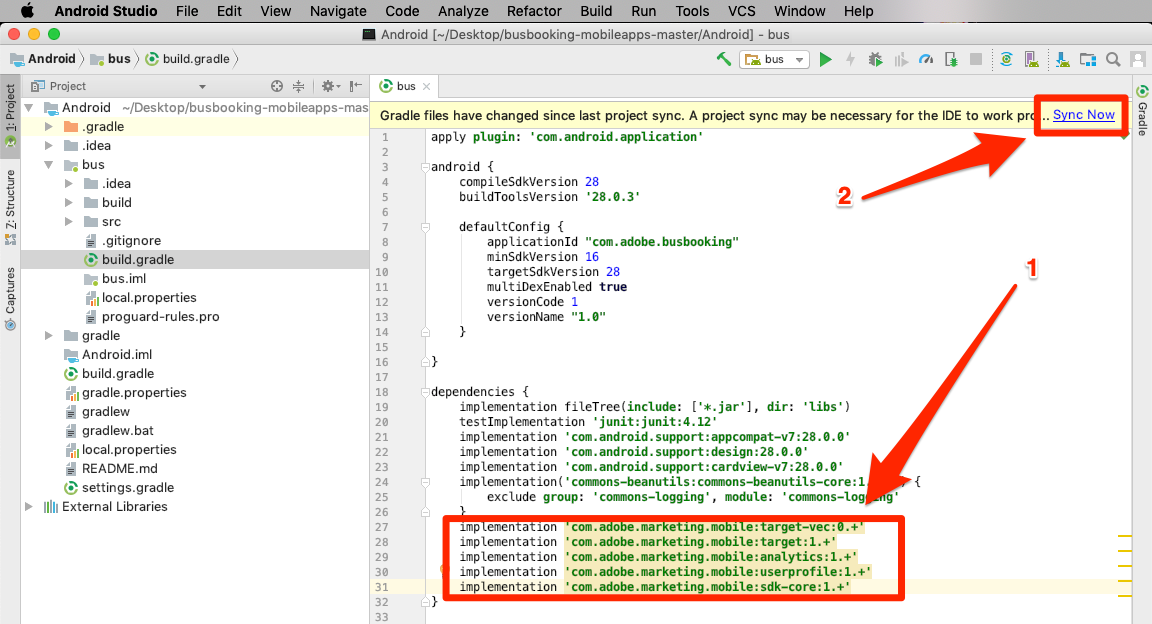
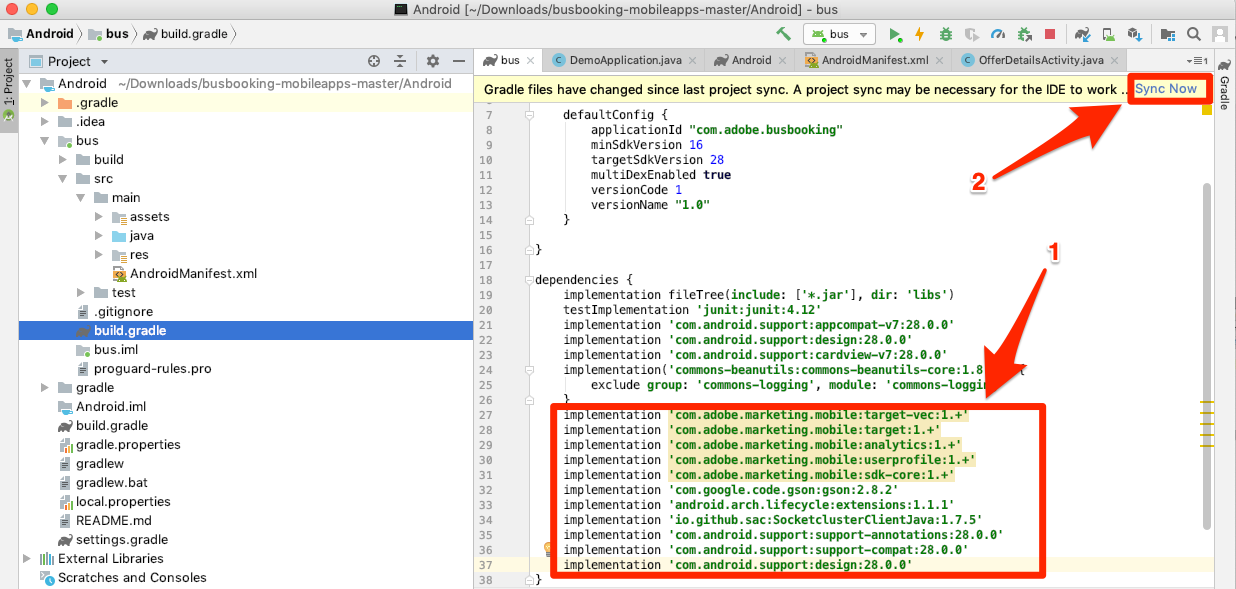
updates to additional implementation and debugging steps

diff --git a/help/mobile-android-implementation/target-vec.md b/help/mobile-android-implementation/target-vec.md
@@ -182,6 +182,18 @@ Now let's create an activity in the Target interface.
 
 <!--   ![App loads in the VEC](images/android/mobile-targetvec-devicePaired.png)-->
 
+    > [!TIP] If you don't see the Mobile VEC automatically open in the Target interface after opening the deep link in the mobile device, here are some things to try:
+    >
+    >   1. Make sure you are using the exact same URL in the Target interface and didn't accidentally clip off any characters. When runningt the command in the adb shell, make sure the URL is in quotation marks
+    >
+    >
+    >   1. Confirm that you added the additional dependencies to the build.gradle file that are required by the Target VEC. These dependencies should have been added during the [Install the Mobile SDK lesson](https://docs.adobe.com/content/help/en/experience-cloud/implementing-in-mobile-android-apps-with-launch/configure-launch/launch-install-the-mobile-sdk.html#update-the-buildgradle-file)
+    >
+    >
+    >   1. Try clearing the Data stored in the app as pictured below
+
+![App loads in the VEC](images/android/mobile-targetvec-pairing-clearData.png)
+
 1. Make some changes to the first screen in your app
 1. Now position the Emulator next to the browser with the VEC open
 1. Navigate to a different screen in the app and notice how the VEC updates with the Emulator!

diff --git a/help/mobile-android-implementation/launch-install-the-mobile-sdk.md b/help/mobile-android-implementation/launch-install-the-mobile-sdk.md
@@ -78,9 +78,20 @@ The Adobe Mobile SDK for Android uses Gradle to manage dependencies between its 
    ![Copy dependencies to your clipboard in the Launch interface](images/android/mobile-launch-install-copyDependencies.png)
 
 1. In Android Studio, paste the dependencies from your clipboard right after the existing dependencies (but before the closing `}`)
-1. Click the "Sync Now" link to sync the project
+1. Additionally, if you are installing the Adobe Target VEC extension, you need to add these additional dependencies:
 
-   ![Copy dependencies to your clipboard in the Launch interface](images/android/mobile-launch-install-pasteDependencies.png)
+```java
+    implementation 'com.google.code.gson:gson:2.8.2'
+    implementation 'android.arch.lifecycle:extensions:1.1.1'
+    implementation 'io.github.sac:SocketclusterClientJava:1.7.5'
+    implementation 'com.android.support:support-annotations:28.0.0'
+    implementation 'com.android.support:support-compat:28.0.0'
+    implementation 'com.android.support:design:28.0.0'
+```
+
+   1. Click the "Sync Now" link to sync the project
+
+   ![Paste dependencies in to build.gradle](images/android/mobile-launch-install-pasteDependencies.png)
 
 ## Update the Application
 
